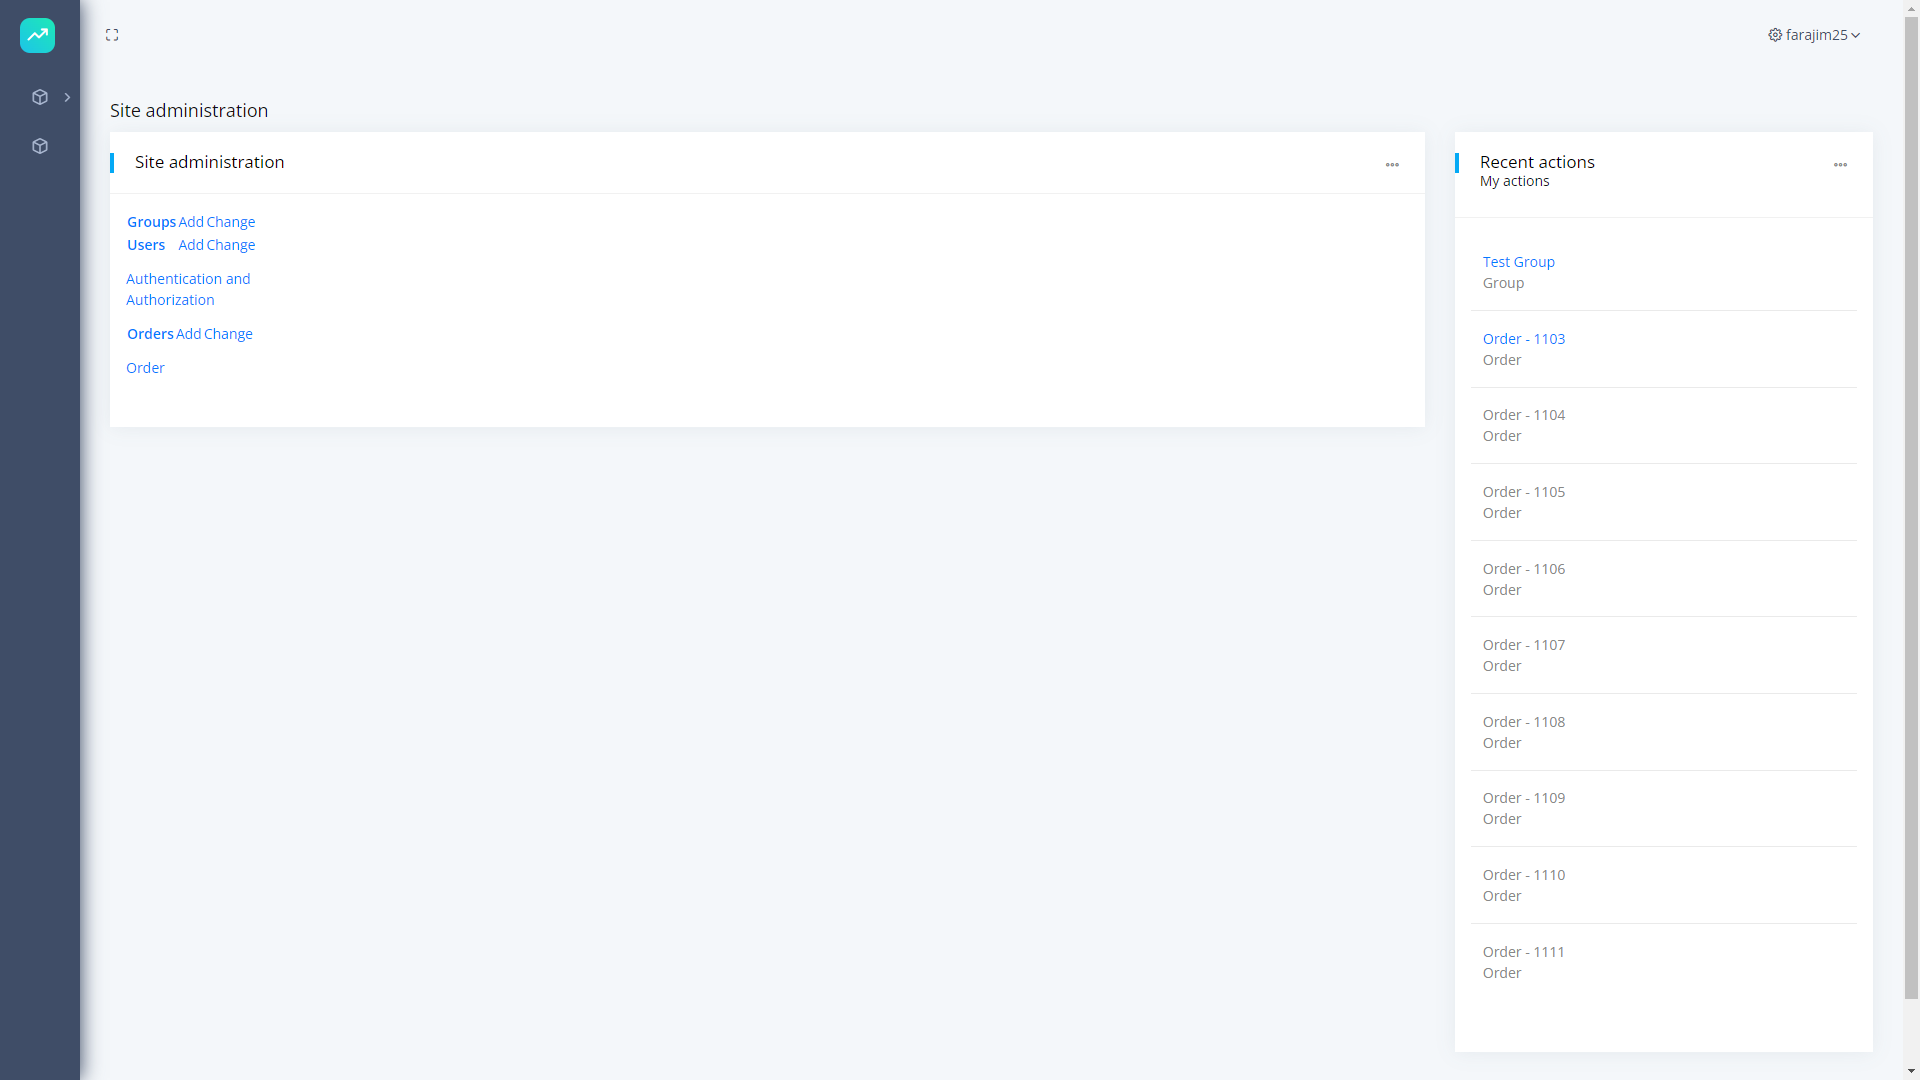
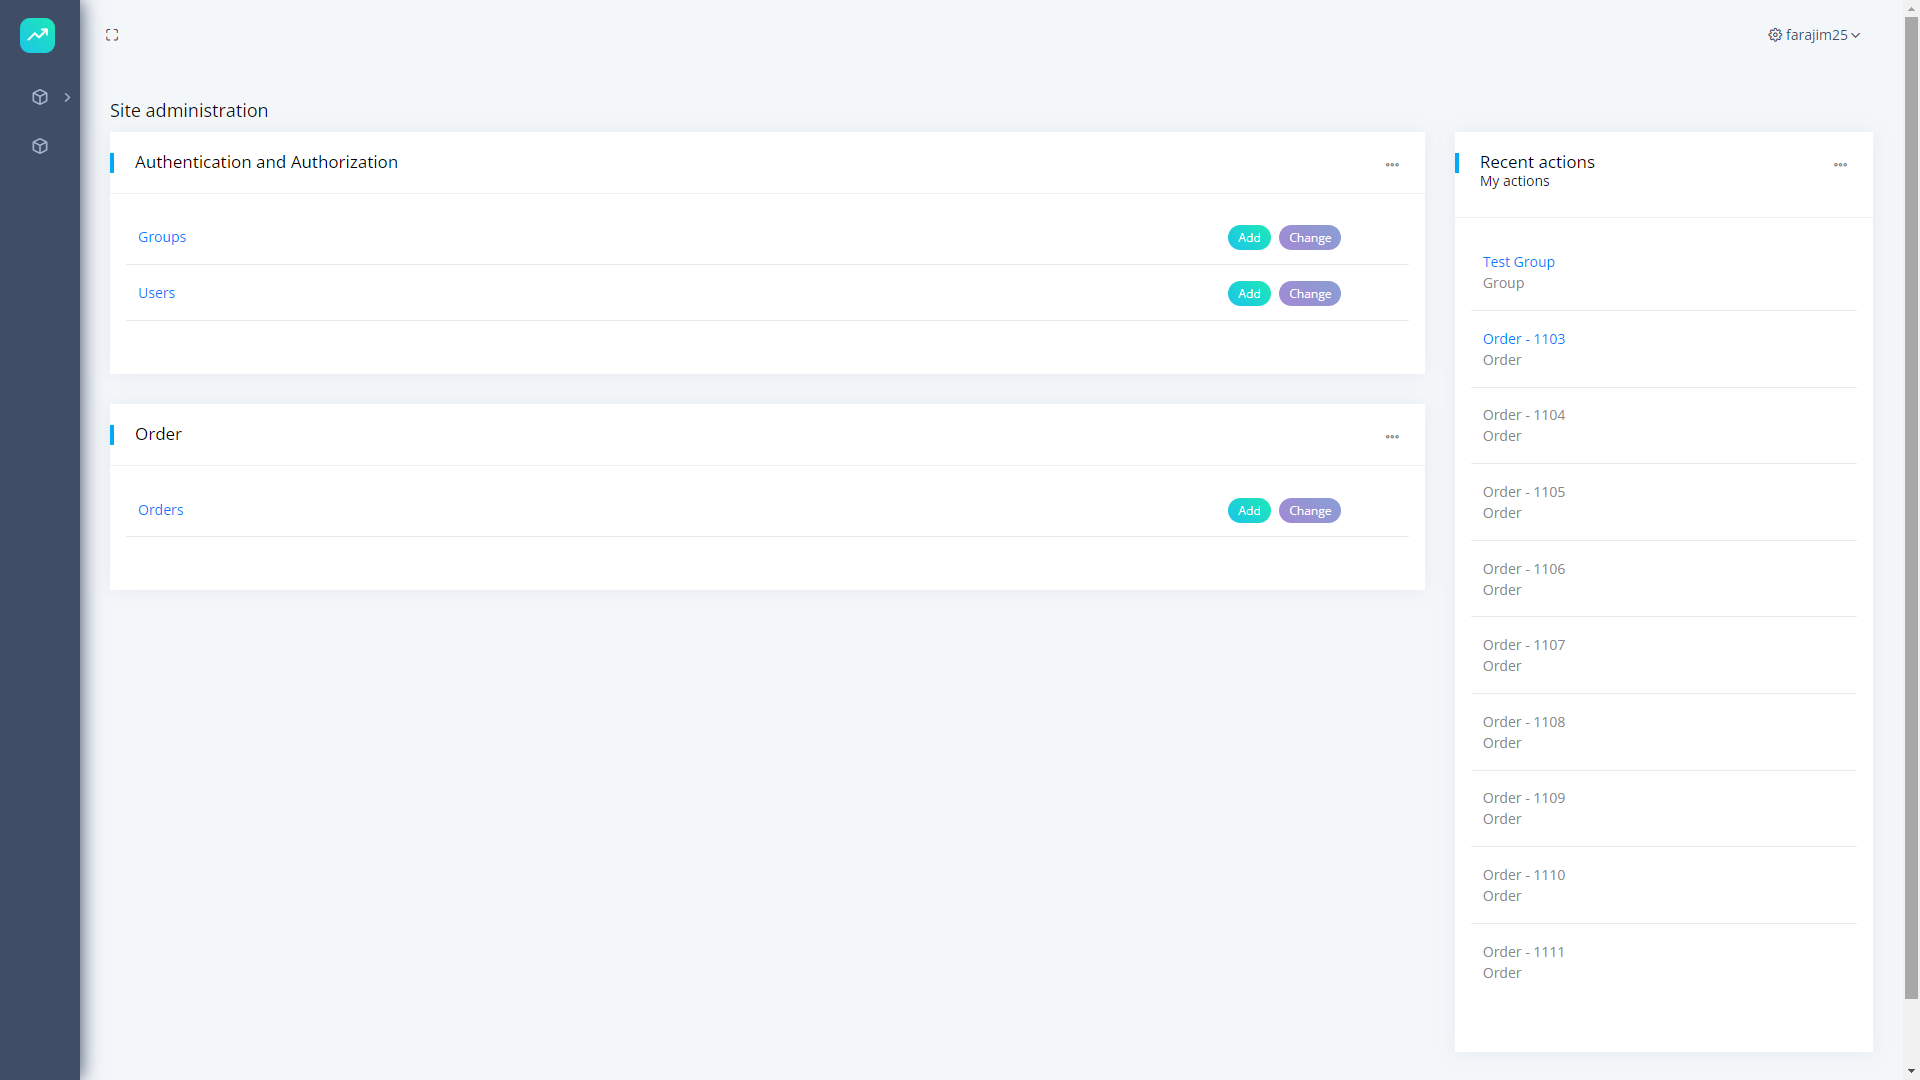
update app list in index.html

diff --git a/ash/templates/admin/app_list.html b/ash/templates/admin/app_list.html
@@ -47,38 +47,54 @@
 {% else %}
   {% if app_list %}
     {% for app in app_list %}
-      <div class="app-{{ app.app_label }} module{% if app.app_url in request.path %} current-app{% endif %}">
-        <table>
-          <caption>
-            <a href="{{ app.app_url }}" class="section" title="{% blocktrans with name=app.name %}Models in the {{ name }} application{% endblocktrans %}">{{ app.name }}</a>
-          </caption>
-          {% for model in app.models %}
-            <tr class="model-{{ model.object_name|lower }}{% if model.admin_url in request.path %} current-model{% endif %}">
-              {% if model.admin_url %}
-                <th scope="row"><a href="{{ model.admin_url }}"{% if model.admin_url in request.path %} aria-current="page"{% endif %}>{{ model.name }}</a></th>
-              {% else %}
-                <th scope="row">{{ model.name }}</th>
-              {% endif %}
+        <div class="card">
+          <div class="card-header">
+            <h5>{{ app.name }}</h5>
+            <div class="card-header-right">
+              <div class="btn-group card-option">
+                  <button type="button" class="btn dropdown-toggle btn-icon" data-toggle="dropdown" aria-haspopup="true" aria-Expand="false">
+                      <i class="feather icon-more-horizontal"></i>
+                  </button>
+                  <ul class="list-unstyled card-option dropdown-menu dropdown-menu-right">
+                      {% if not LANGUAGE_BIDI %}
+                        <li class="dropdown-item full-card"><a href="javascript:"><span><i class="feather icon-maximize"></i> maximize</span><span style="display:none"><i class="feather icon-minimize"></i> Restore</span></a></li>
+                      {% endif %}
+                      <li class="dropdown-item minimize-card"><a href="javascript:"><span><i class="feather icon-minus"></i>Collapse</span><span style="display:none"><i class="feather icon-plus"></i> Expand</span></a></li>
+                  </ul>
+              </div>
+            </div>
+          </div>
+          <div class="card-block p-3">
+            <div class="app-{{ app.app_label }} module{% if app.app_url in request.path %} current-app{% endif %}">
+              <table class="app-table table table-hover">
+                {% for model in app.models %}
+                  <tr class="model-{{ model.object_name|lower }}{% if model.admin_url in request.path %} current-model{% endif %}">
+                    <td style="width:85%">
+                    {% if model.admin_url %}
+                      <a href="{{ model.admin_url }}"{% if model.admin_url in request.path %} aria-current="page"{% endif %}>{{ model.name }}</a>
+                    {% else %}
+                      {{ model.name }}
+                    {% endif %}
+                    </td>
+                    
+                    <td style="width:15%">
+                    {% if model.add_url %}
+                      <a href="{{ model.add_url }}" class="addlink label theme-bg text-white f-12">{% trans 'Add' %}</a>
+                    {% endif %}
 
-              {% if model.add_url %}
-                <td><a href="{{ model.add_url }}" class="addlink">{% trans 'Add' %}</a></td>
-              {% else %}
-                <td></td>
-              {% endif %}
-
-              {% if model.admin_url and show_changelinks %}
-                {% if model.view_only %}
-                  <td><a href="{{ model.admin_url }}" class="viewlink">{% trans 'View' %}</a></td>
-                {% else %}
-                  <td><a href="{{ model.admin_url }}" class="changelink">{% trans 'Change' %}</a></td>
-                {% endif %}
-              {% elif show_changelinks %}
-                <td></td>
-              {% endif %}
-            </tr>
-          {% endfor %}
-        </table>
-      </div>
+                    {% if model.view_only %}
+                      <a href="{{ model.admin_url }}" class="viewlink label theme-bg2 text-white f-12">{% trans 'View' %}</a>
+                    {% else %}
+                      <a href="{{ model.admin_url }}" class="changelink label theme-bg2 text-white f-12">{% trans 'Change' %}</a>
+                    {% endif %}
+                    </td>
+                  </tr>
+                {% endfor %}
+              </table>
+            </div>
+            <br class="clear">
+          </div>
+        </div>
     {% endfor %}
   {% else %}
     <p>{% trans 'You don’t have permission to view or edit anything.' %}</p>

diff --git a/ash/templates/admin/index.html b/ash/templates/admin/index.html
@@ -3,9 +3,8 @@
 
 {% block breadcrumbs %}{% endblock %}
 
-{% block content_coltype %}col-lg-9{% endblock %}
-{% block content_content %}
-    <div id="content-main">
+{% block content %}
+    <div id="content-main" class="col-lg-9">
     {% include "admin/app_list.html" with app_list=app_list show_changelinks=True %}
     </div>
 {% endblock %}

diff --git a/ash/static/admin/datta-able/css/style.css b/ash/static/admin/datta-able/css/style.css
@@ -10652,4 +10652,11 @@ div.code-toolbar > .toolbar span:hover {
 .table-wrap td, .table-wrap th{
   white-space: initial !important;
 }
+.app-table .label{
+  border-radius: 15px;
+}
+.app-table td {
+  border-top: 0;
+  border-bottom: 1px solid #eaeaea;
+}
 /**====== Django ASH css end ======**/

diff --git a/ash/__init__.py b/ash/__init__.py
@@ -1,1 +1,1 @@
-VERSION = '0.0.3'
+VERSION = '0.0.4'
